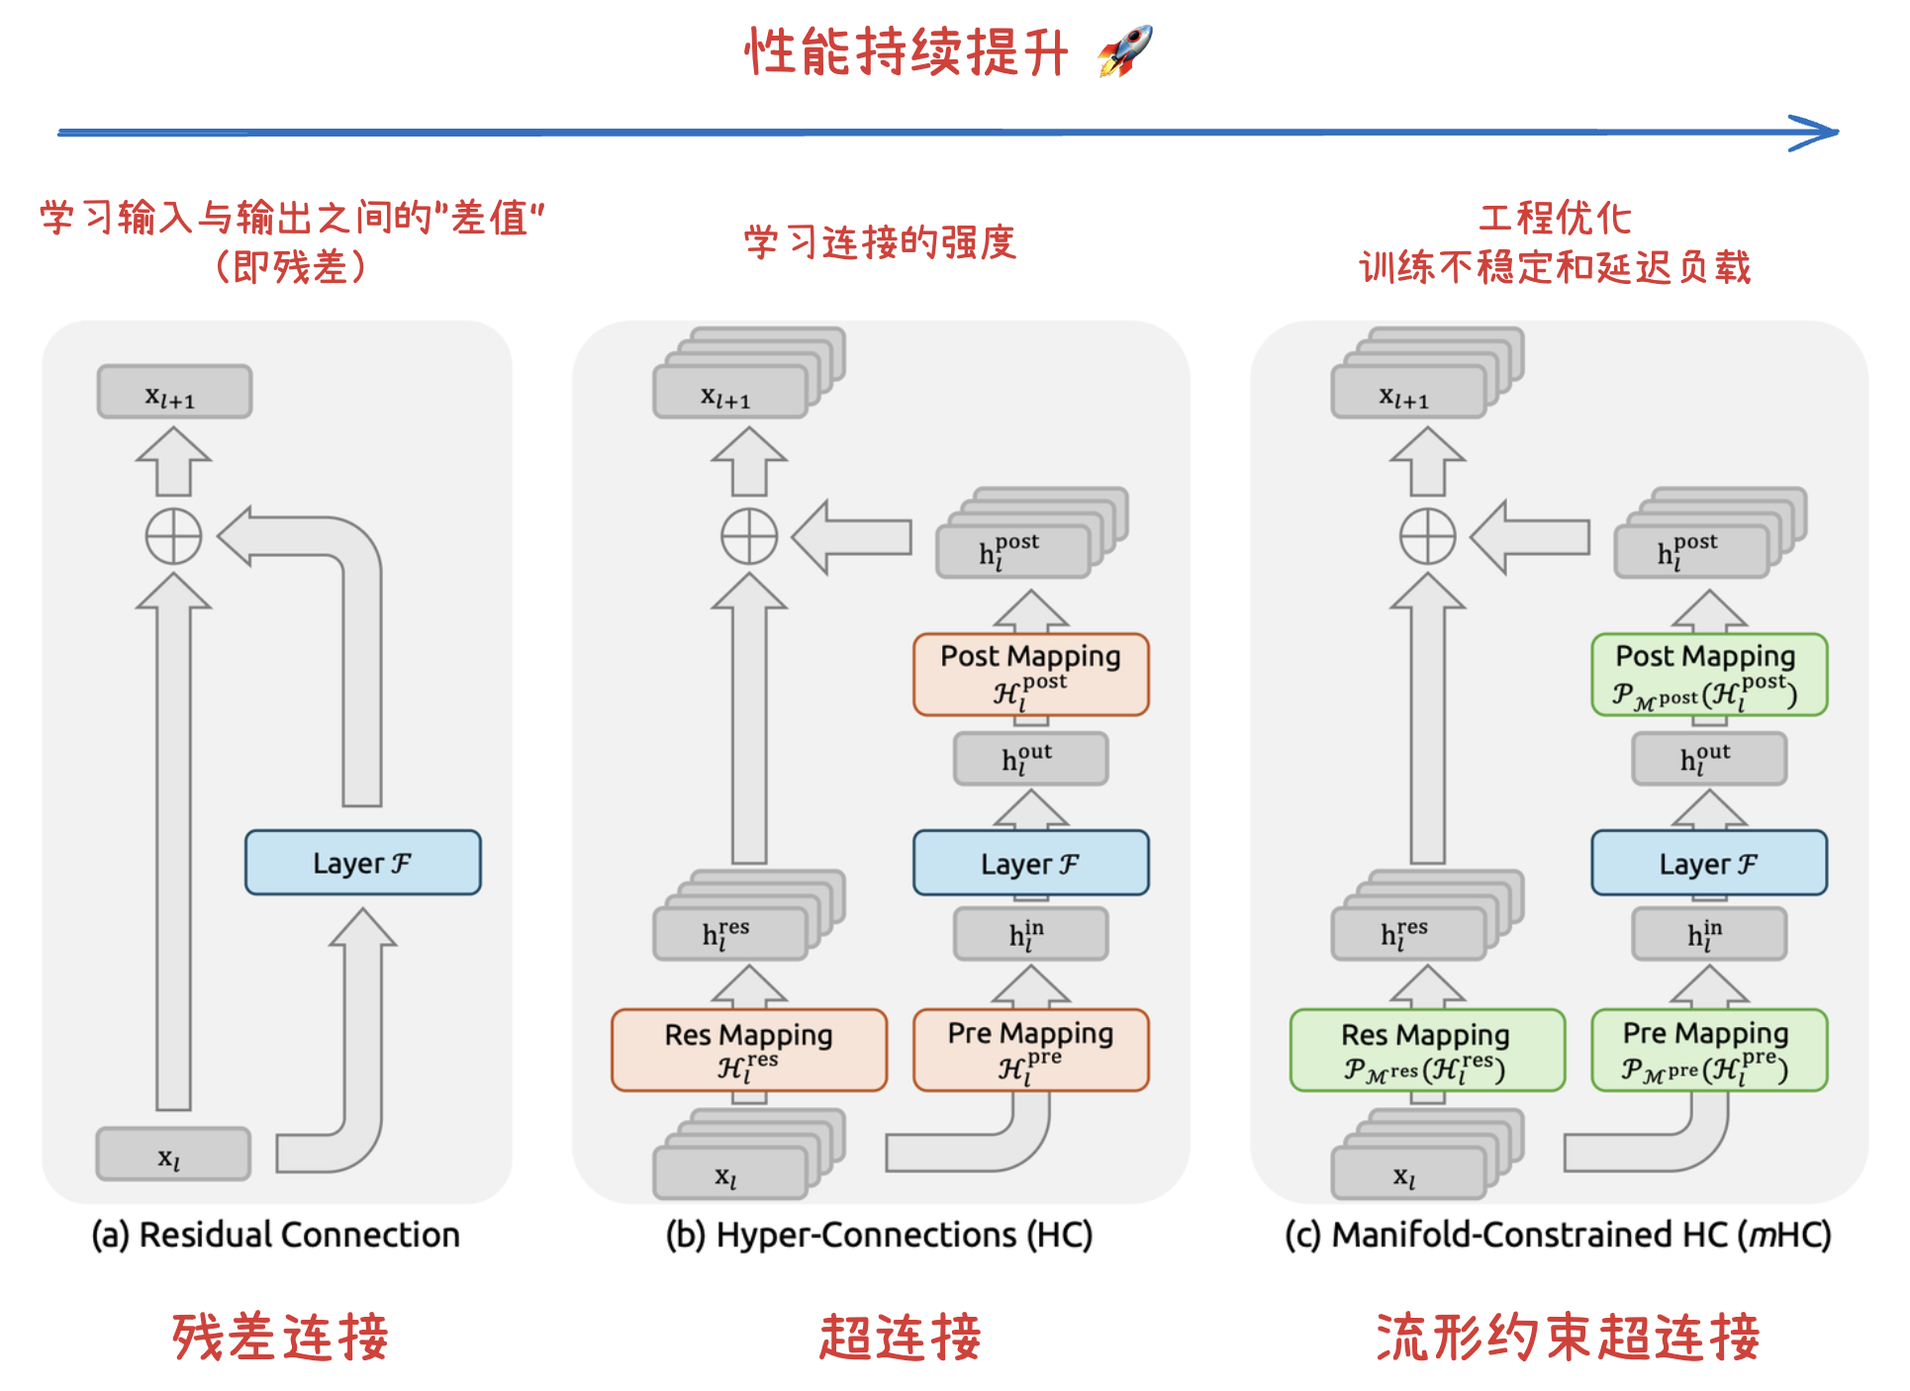
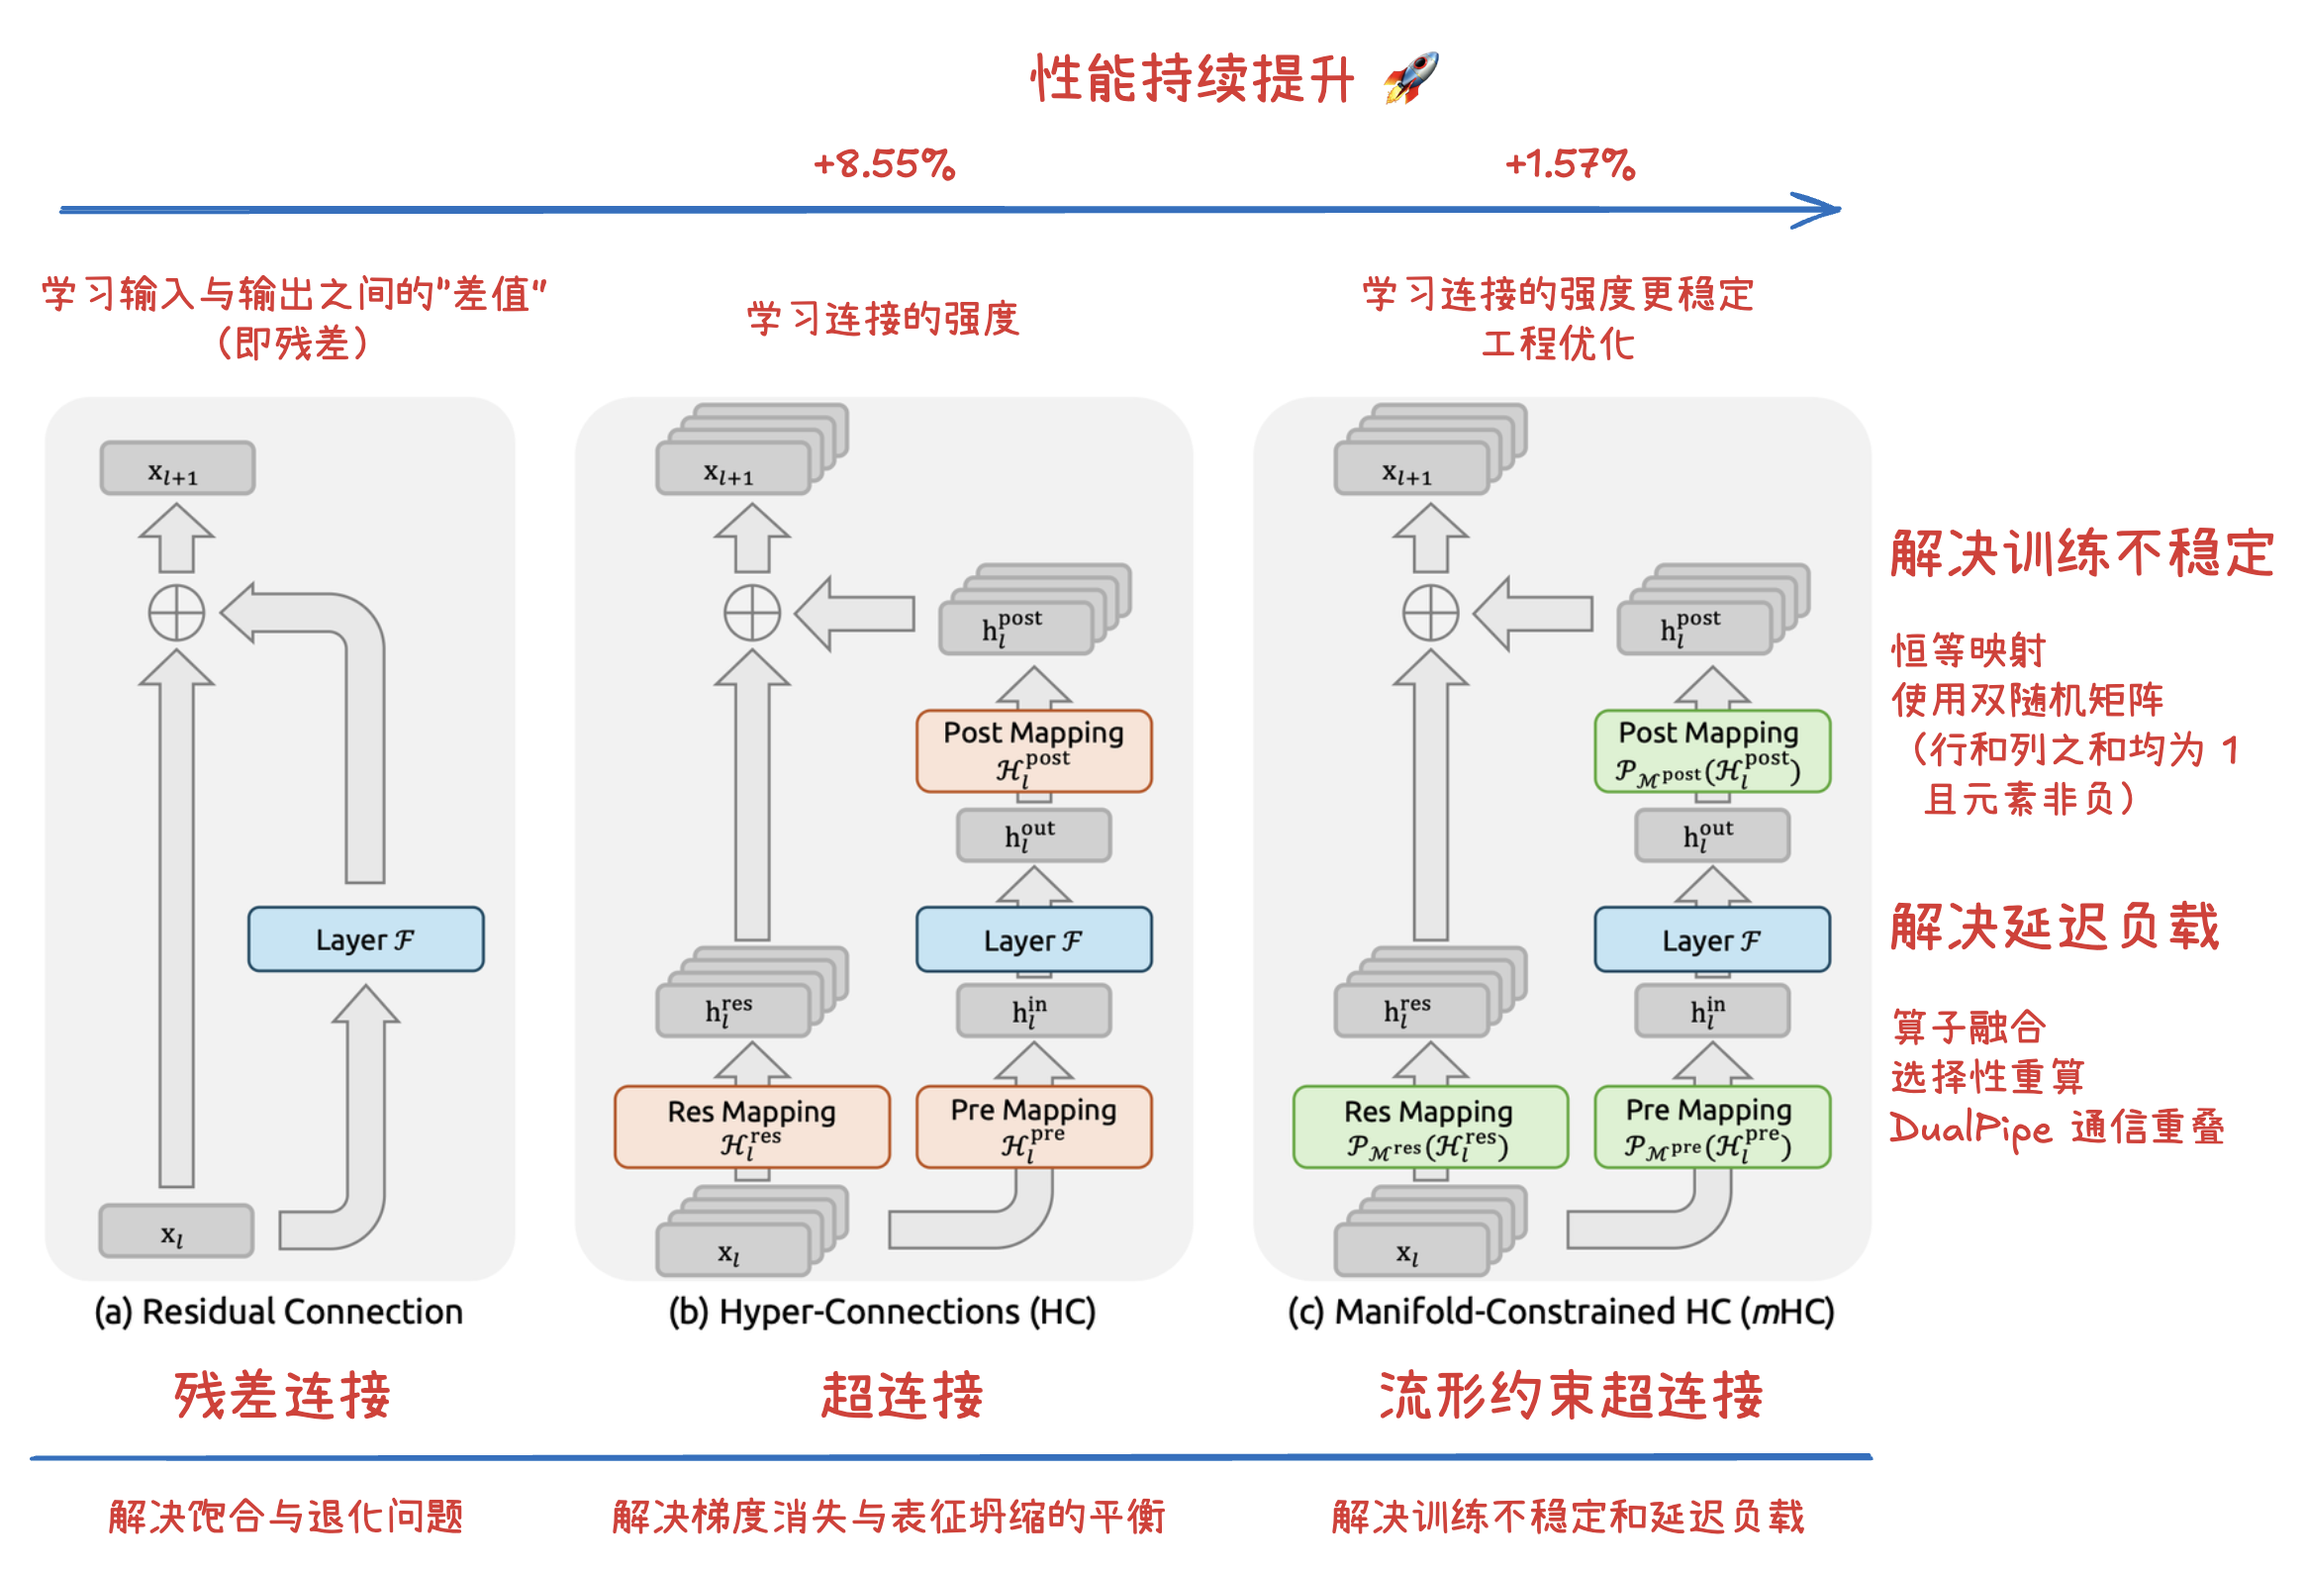
update mHC

Changed region(s): [[0.0, 0.0917, 0.9948, 0.9787], [0.3731, 0.0, 0.6218, 0.0612]]

diff --git a/_posts/2026-01-05-DeepSeek-mHC-Manifold-Constrained-Hyper-Connections.md b/_posts/2026-01-05-DeepSeek-mHC-Manifold-Constrained-Hyper-Connections.md
@@ -224,6 +224,38 @@ HC 虽然计算量（FLOPs）增加不多，但由于残差流变宽，带来了
 
 **27B 规模模型的系统级基准测试结果**。 本表对比了基线模型（Baseline）、超链接模型（HC）以及流形约束超链接模型（mHC）在 8 个不同下游基准测试中的零样本（zero-shot）和少样本（few-shot）性能。mHC 一致性地优于基线模型，并在大多数基准测试中超越了 HC，证明了其在大规模预训练中的有效性。
 
+#### 27B w/HC 相比 27B Baseline 的提升
+
+| 基准测试 | Baseline | w/HC | 提升幅度 (%) |
+| --- | --- | --- | --- |
+| **BBH** | 43.8 | 48.9 | **+11.64%** |
+| **DROP** | 47.0 | 51.6 | **+9.79%** |
+| **GSM8K** | 46.7 | 53.2 | **+13.92%** |
+| **HellaSwag** | 73.7 | 74.3 | **+0.81%** |
+| **MATH** | 22.0 | 26.4 | **+20.00%** |
+| **MMLU** | 59.0 | 63.0 | **+6.78%** |
+| **PIQA** | 78.5 | 79.9 | **+1.78%** |
+| **TriviaQA** | 54.3 | 56.3 | **+3.68%** |
+
+- **平均提升：约 8.55%**
+
+#### 27B w/mHC 相对于 27B w/HC 的性能提升
+
+计算公式：
+
+| 基准测试 | 27B w/HC | 27B w/mHC | 提升幅度 (%) |
+| --- | --- | --- | --- |
+| **BBH** | 48.9 | 51.0 | **+4.29%** |
+| **DROP** | 51.6 | 53.9 | **+4.46%** |
+| **GSM8K** | 53.2 | 53.8 | **+1.13%** |
+| **HellaSwag** | 74.3 | 74.7 | **+0.54%** |
+| **MATH** | 26.4 | 26.0 | **-1.52%** |
+| **MMLU** | 63.0 | 63.4 | **+0.63%** |
+| **PIQA** | 79.9 | 80.5 | **+0.75%** |
+| **TriviaQA** | 56.3 | 57.6 | **+2.31%** |
+
+- **平均提升：约 1.57%**
+
 ### 扩展实验（Scaling Law）
 
 ![](/images/2026/DeepSeek/mHC/mHC-Scaling-Experiments.png)
